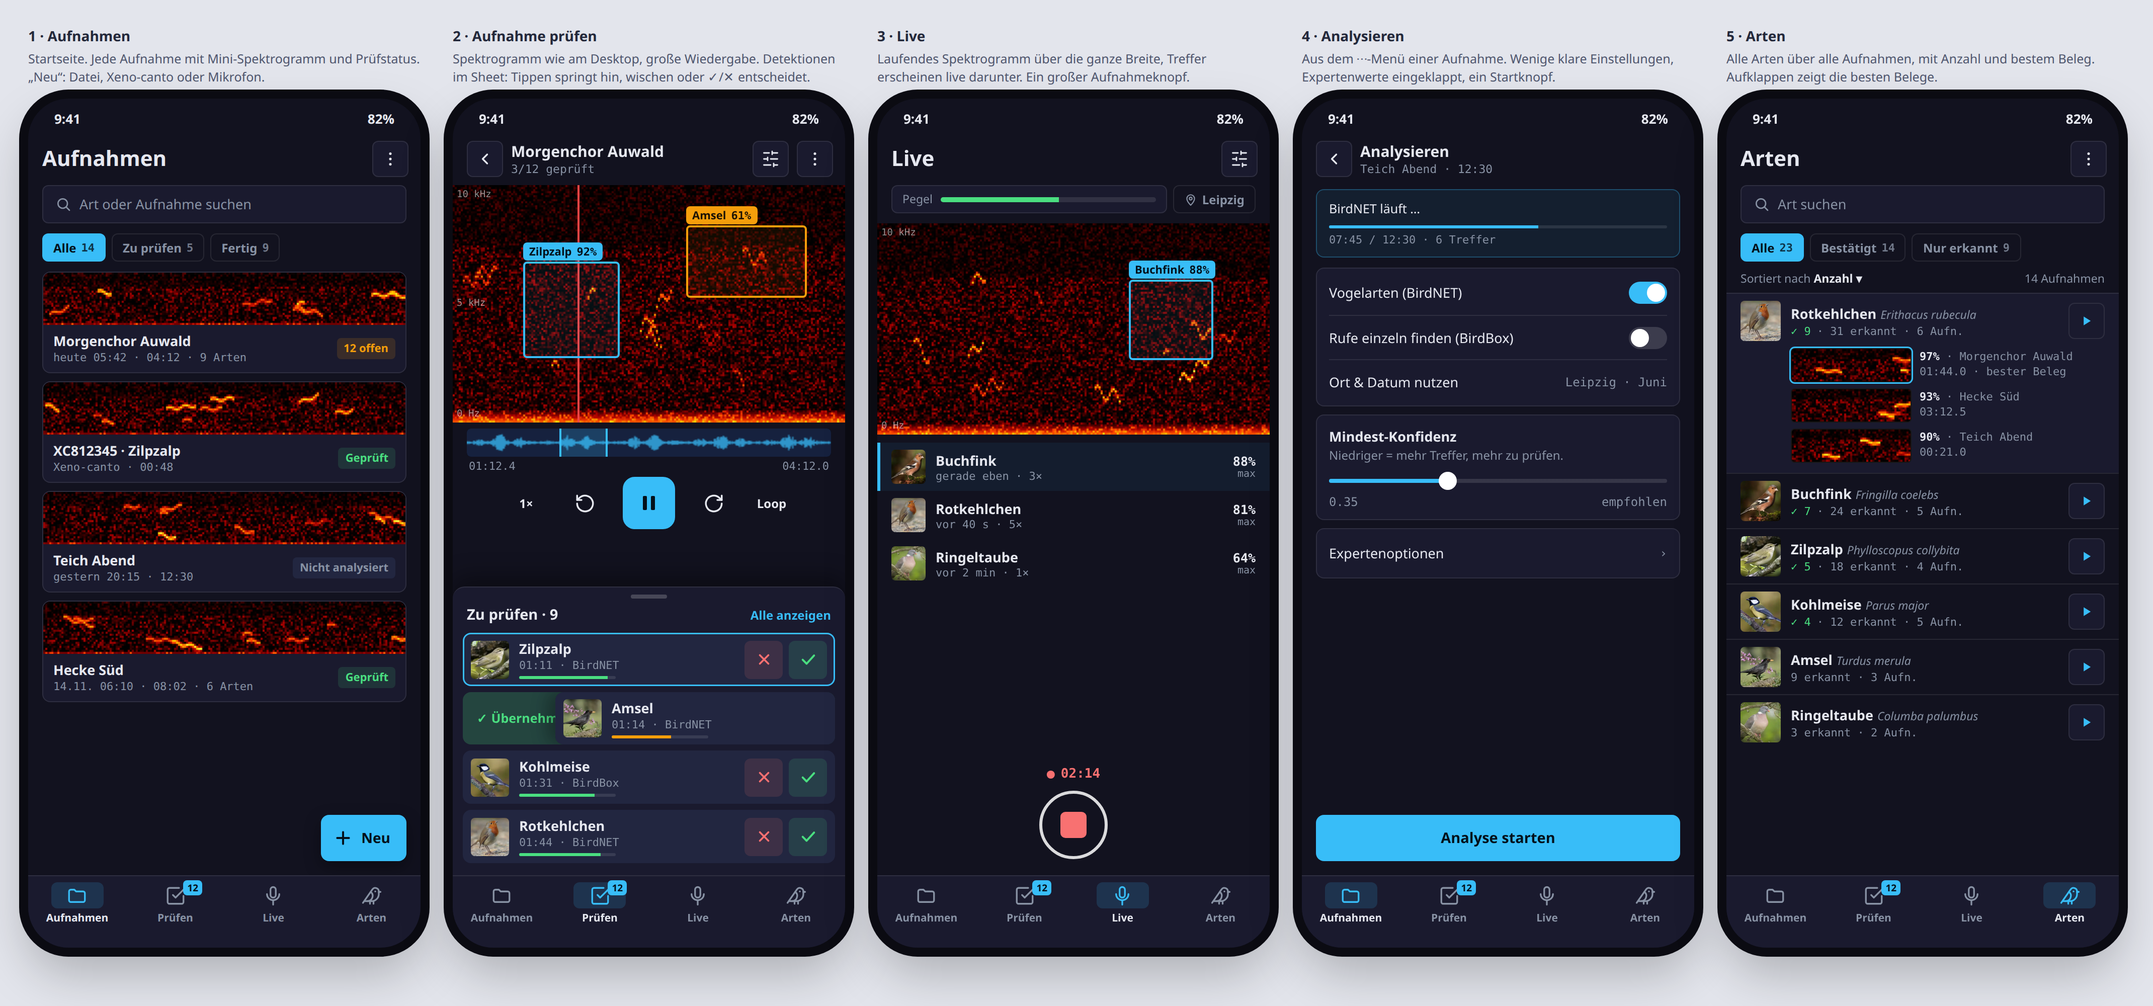
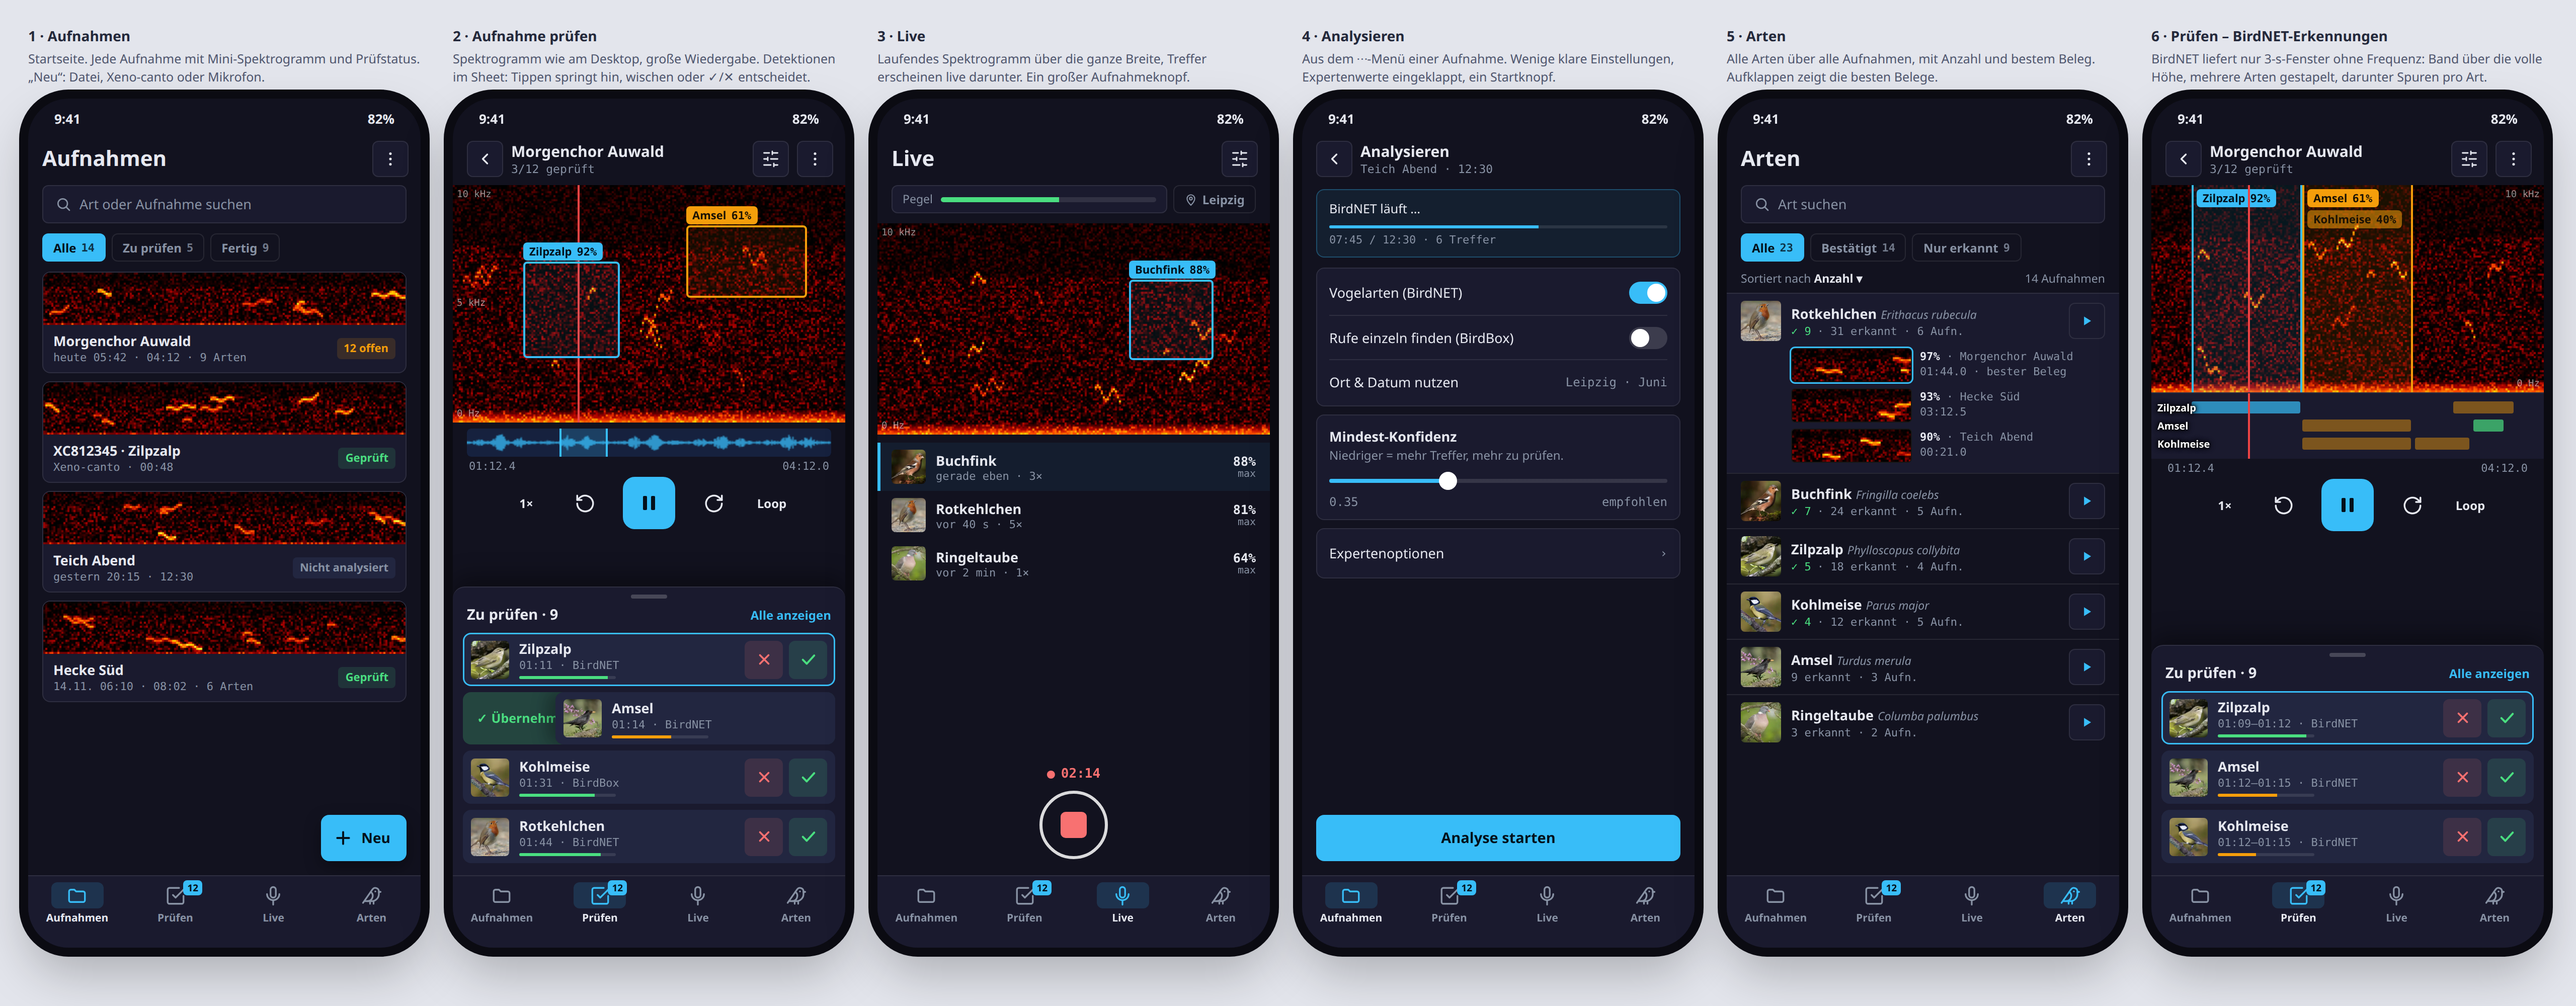
Mobile design mockup: BirdNET detections as time bands with species lanes

diff --git a/plans/mobile-design/mockup.html b/plans/mobile-design/mockup.html
@@ -148,6 +148,22 @@
   .exr .i b { color: var(--text); font-family: inherit; }
   .sort { display: flex; justify-content: space-between; padding: 0 14px 6px; font-size: 11.5px; color: var(--muted); }
   .sort b { color: var(--text); font-weight: 600; }
+
+  /* BirdNET detections: time segments without frequency → full-height bands */
+  .band { position: absolute; top: 0; bottom: 0; z-index: 2; background: rgba(245,158,11,.10); border-left: 2px solid var(--warn); border-right: 2px solid var(--warn); }
+  .band.sel { background: rgba(56,189,248,.12); border-color: var(--accent); }
+  .band .tags { position: absolute; top: 4px; left: 3px; display: flex; flex-direction: column; gap: 3px; }
+  .band .tags span { height: 18px; display: inline-flex; align-items: center; gap: 5px; font-size: 11px; font-weight: 700; background: var(--warn); color: #1a1205; padding: 0 6px; border-radius: 4px; white-space: nowrap; width: max-content; }
+  .band .tags span b { font-family: var(--mono); }
+  .band .tags span.dim { background: rgba(245,158,11,.55); }
+  .band.sel .tags span { background: var(--accent); color: var(--accent-ink); }
+  .lanes { background: var(--surface); border-top: 1px solid var(--line); padding: 4px 0 5px; }
+  .lane { position: relative; height: 16px; margin: 2px 0; }
+  .lane .nm { position: absolute; left: 6px; top: 0; font-size: 10px; font-weight: 700; color: #fff; line-height: 16px; z-index: 1; text-shadow: 0 0 2px #000, 0 0 4px #000, 0 0 6px #000; pointer-events: none; }
+  .lane i { position: absolute; top: 2px; bottom: 2px; border-radius: 2px; background: rgba(245,158,11,.45); }
+  .lane i.sel { background: rgba(56,189,248,.7); }
+  .lane i.ok { background: rgba(74,222,128,.7); }
+  .lanes .ph2 { position: absolute; top: 0; bottom: 0; width: 2px; background: var(--playhead); }
 </style>
 </head>
 <body>
@@ -322,6 +338,51 @@
       <a><span class="pill"><svg><use href="#i-check"/></svg></span><span class="badge">12</span>Prüfen</a>
       <a><span class="pill"><svg><use href="#i-mic"/></svg></span>Live</a>
       <a class="on"><span class="pill"><svg><use href="#i-bird"/></svg></span>Arten</a>
+    </nav>
+  </div>
+</div>
+
+<div class="frame">
+  <p class="cap">6 · Prüfen – BirdNET-Erkennungen</p>
+  <p class="sub">BirdNET liefert nur 3-s-Fenster ohne Frequenz: Band über die volle Höhe, mehrere Arten gestapelt, darunter Spuren pro Art.</p>
+  <div class="phone">
+    <div class="status"><span>9:41</span><span>82%</span></div>
+    <div class="appbar"><span class="icon-btn"><svg><use href="#i-back"/></svg></span><h2>Morgenchor Auwald<small>3/12 geprüft</small></h2><span class="icon-btn"><svg><use href="#i-tune"/></svg></span><span class="icon-btn"><svg><use href="#i-more"/></svg></span></div>
+    <div class="content">
+      <div class="spec" data-seed="8" style="height:206px">
+        <span class="axis" style="top:4px;left:auto;right:4px">10 kHz</span><span class="axis" style="bottom:3px;left:auto;right:4px">0 Hz</span>
+        <div class="band sel" style="left:40px;width:110px"><div class="tags"><span>Zilpzalp <b>92%</b></span></div></div>
+        <div class="band" style="left:150px;width:110px"><div class="tags"><span>Amsel <b>61%</b></span><span class="dim">Kohlmeise <b>40%</b></span></div></div>
+        <div class="playhead" style="left:96px;z-index:3"></div>
+      </div>
+      <div class="lanes" style="position:relative">
+        <div class="lane"><span class="nm">Zilpzalp</span><i class="sel" style="left:40px;width:108px"></i><i style="left:300px;width:60px"></i></div>
+        <div class="lane"><span class="nm">Amsel</span><i style="left:150px;width:108px"></i><i class="ok" style="left:320px;width:30px"></i></div>
+        <div class="lane"><span class="nm">Kohlmeise</span><i style="left:150px;width:108px"></i><i style="left:262px;width:54px"></i></div>
+        <span class="ph2" style="left:96px"></span>
+      </div>
+      <div class="time"><span>01:12.4</span><span>04:12.0</span></div>
+      <div class="transport">
+        <span class="sm">1×</span>
+        <span class="sm"><svg><use href="#i-rw"/></svg></span>
+        <span class="play"><svg><use href="#i-pause"/></svg></span>
+        <span class="sm"><svg><use href="#i-fw"/></svg></span>
+        <span class="sm">Loop</span>
+      </div>
+      <div class="sheet">
+        <div class="grip"></div>
+        <div class="sheet-h"><b>Zu prüfen · 9</b><span>Alle anzeigen</span></div>
+        <div class="det cur"><img src="../../demo/data/species_images/Phylloscopus collybita.webp"><div><div class="n">Zilpzalp</div><div class="s">01:09–01:12 · BirdNET</div><div class="conf"><i style="width:92%"></i></div></div><div class="acts"><span class="sq no"><svg><use href="#i-x"/></svg></span><span class="sq yes"><svg><use href="#i-ok"/></svg></span></div></div>
+        <div class="det"><img src="../../demo/data/species_images/Turdus merula.webp"><div><div class="n">Amsel</div><div class="s">01:12–01:15 · BirdNET</div><div class="conf"><i style="width:61%;background:var(--warn)"></i></div></div><div class="acts"><span class="sq no"><svg><use href="#i-x"/></svg></span><span class="sq yes"><svg><use href="#i-ok"/></svg></span></div></div>
+        <div class="det"><img src="../../demo/data/species_images/Parus major.webp"><div><div class="n">Kohlmeise</div><div class="s">01:12–01:15 · BirdNET</div><div class="conf"><i style="width:40%;background:var(--warn)"></i></div></div><div class="acts"><span class="sq no"><svg><use href="#i-x"/></svg></span><span class="sq yes"><svg><use href="#i-ok"/></svg></span></div></div>
+        <div style="height:6px"></div>
+      </div>
+    </div>
+    <nav class="nav">
+      <a><span class="pill"><svg><use href="#i-lib"/></svg></span>Aufnahmen</a>
+      <a class="on"><span class="pill"><svg><use href="#i-check"/></svg></span><span class="badge">12</span>Prüfen</a>
+      <a><span class="pill"><svg><use href="#i-mic"/></svg></span>Live</a>
+      <a><span class="pill"><svg><use href="#i-bird"/></svg></span>Arten</a>
     </nav>
   </div>
 </div>
